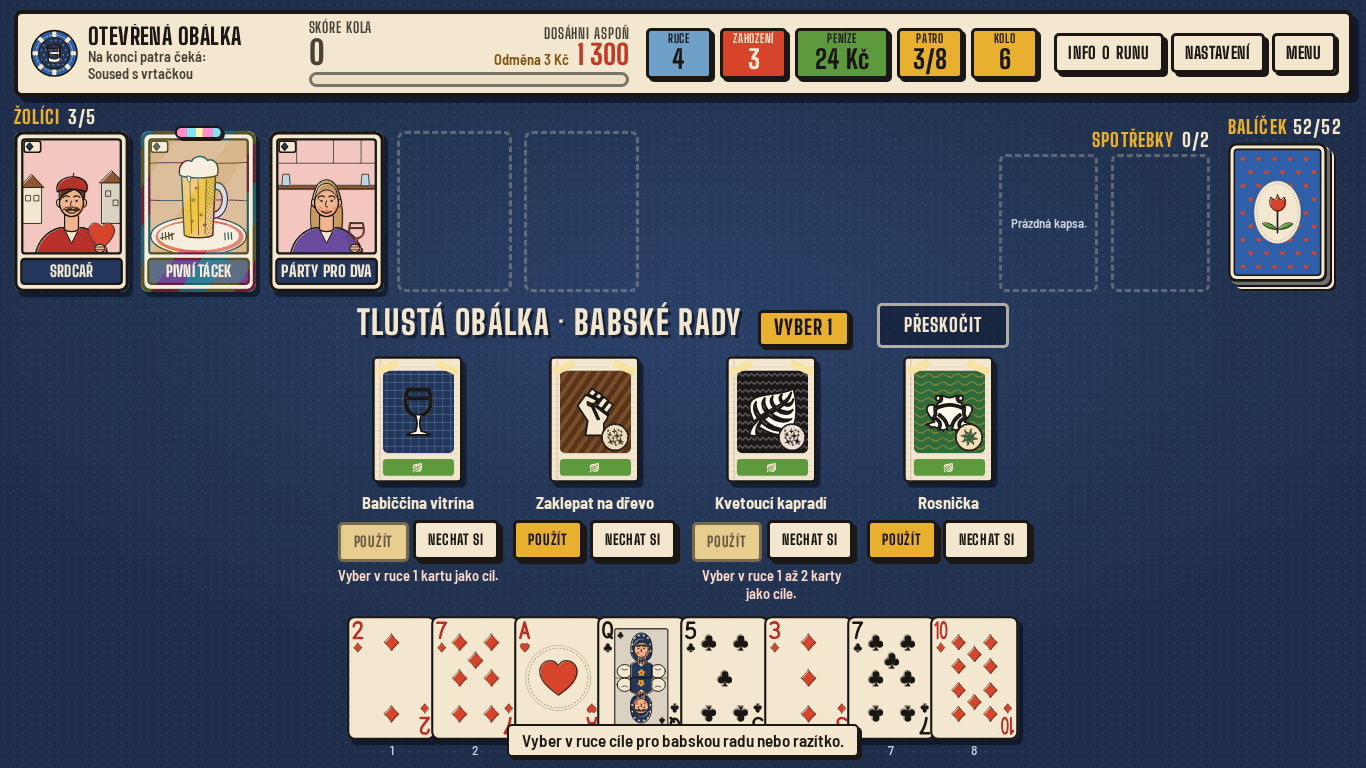
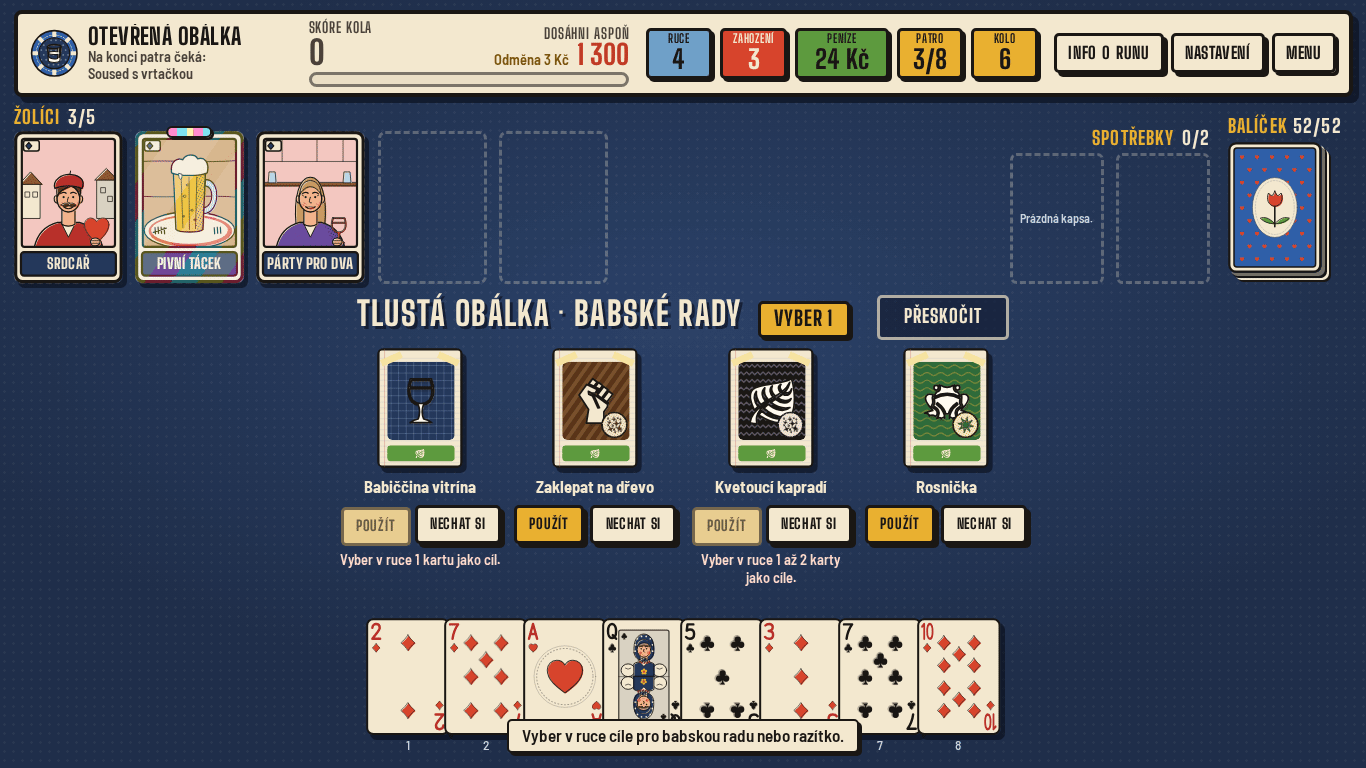
feat(ui): Balatro-style control row under the hand
Zahrat | Seradit | Zahodit now sit in one centered row right under the hand,
with the counts to the left, so the mouse never has to cross the screen.
To pay for the extra row the chips x mult preview moves to the top of the
table and played cards sit below it next to the hand; selected cards lift
into the empty table instead of over the numbers. Cards are about 6 %
smaller at 1366x768; tablet keeps the same row, phone puts Zahrat and
Zahodit side by side with sorting below. README media refreshed.

Claude-Session: https://claude.ai/code/session_01NwxbcCmohEvupYyde7D1S4

diff --git a/src/ui/styles/game.css b/src/ui/styles/game.css
@@ -17,7 +17,7 @@
    */
   --card-w: clamp(
     52px,
-    min(calc((100vw - 30rem) / 7.2), calc((100dvh - 15rem) / 4.5)),
+    min(calc((100vw - 4rem) / 7.4), calc((100dvh - 16.5rem) / 4.5)),
     calc(200px * var(--vp-scale, 1))
   );
   --game-card-w: var(--card-w);
@@ -42,7 +42,7 @@
   .game {
     --card-w: clamp(
       52px,
-      min(calc((100vw - 20rem) / 6.8), calc((100dvh - 19.5rem) / 4.4)),
+      min(calc((100vw - 3rem) / 7.4), calc((100dvh - 22rem) / 4.4)),
       calc(200px * var(--vp-scale, 1))
     );
   }
@@ -710,10 +710,10 @@
   grid-area: 1 / 1;
 }
 
-/* Kolo: zahrané karty nahoře uprostřed, pod nimi náhled kombinace. */
+/* Kolo: nahoře náhled kombinace, pod ním zahrané karty (u ruky). */
 .game-play {
   display: grid;
-  grid-template-rows: 1fr auto;
+  grid-template-rows: auto 1fr;
   align-items: center;
   justify-items: center;
   min-height: 0;
@@ -726,13 +726,17 @@
 
 .game-play > .game-table,
 .game-play > .game-table__hint {
-  grid-row: 1;
+  grid-row: 2;
   grid-column: 1;
 }
 
+/*
+ * Náhled kombinace nahoře na stole (pod žolíky), zahrané karty pod ním u ruky — vybrané karty se zvedají do
+ * prázdného stolu, ne přes čísla.
+ */
 .game-scoreboard {
-  grid-row: 2;
-  padding-bottom: 0.2rem;
+  grid-row: 1;
+  padding-top: 0.1rem;
 }
 
 /*
@@ -1906,20 +1910,21 @@
 /* ─────────────────────────── Dole: ruka a ovládání ─────────────────────────── */
 
 /*
- * Ruka uprostřed, Zahrát a Zahodit u sebe vpravo od ruky (Zahrát nad Zahodit — myš je má na jednom místě),
- * vlevo počty (vybráno, velikost ruky) a pod nimi třídění. Boční sloupce mají stálou šířku — tlačítka se při
- * zahrání neposouvají za zmenšenou rukou. Obaly ruky a ovládání (`.gb-hand-wrap`, `.gb-controls`, `.gb-mid`)
+ * Ruka přes celou šířku, pod ní uprostřed jedna řada ovládání jako u klasiky žánru: Zahrát | Seřadit | Zahodit
+ * (myš má obě hlavní tlačítka hned pod kartami), vlevo od ní počty (vybráno, velikost ruky). Tlačítka mají stálou
+ * šířku, takže se při zahrání neposouvají. Obaly ruky a ovládání (`.gb-hand-wrap`, `.gb-controls`, `.gb-mid`)
  * jsou `display: contents`, ať jejich prvky sedí v jedné mřížce. Balíček stojí v horní řadě (index.ts).
  */
 .game-bottom {
   position: relative;
   display: grid;
-  grid-template-columns: minmax(9rem, 13rem) minmax(0, 1fr) minmax(9rem, 13rem);
-  grid-template-rows: minmax(0, 1fr) auto;
+  grid-template-columns: minmax(0, 1fr) auto auto auto minmax(0, 1fr);
+  grid-template-rows: auto auto;
   grid-template-areas:
-    'counts hand play'
-    'sort hand discard';
-  gap: 0.5rem 1rem;
+    'hand hand hand hand hand'
+    'counts play sort discard .';
+  gap: 0.25rem 0.75rem;
+  align-items: center;
 }
 
 .game-main.is-handless .game-bottom {
@@ -2026,13 +2031,13 @@
   display: none;
 }
 
-/* Zahrát = zelený blok, Zahodit = rumělkový blok s krémovým písmem; velké, nad sebou vpravo od ruky. */
+/* Zahrát = zelený blok, Zahodit = rumělkový blok s krémovým písmem; velké, pod rukou kolem třídění. */
 .gb-play,
 .gb-discard {
-  justify-self: stretch;
+  width: 11.5rem;
   min-width: 0;
-  min-height: 4rem;
-  font-size: 1.85rem;
+  min-height: 3.2rem;
+  font-size: 1.6rem;
   --btn-shadow: 5px 5px 0 var(--ink);
 }
 
@@ -2040,17 +2045,14 @@
   --wash: var(--wash-green);
 
   grid-area: play;
-  align-self: end;
 }
 
 .gb-discard {
   grid-area: discard;
-  align-self: start;
 }
 
 .gb-sort {
   grid-area: sort;
-  align-self: start;
   display: flex;
   flex-wrap: wrap;
   gap: 0.35rem;
@@ -2087,8 +2089,9 @@
   flex-wrap: wrap;
   gap: 0.15rem 0.6rem;
   align-items: baseline;
-  align-self: end;
-  justify-content: center;
+  justify-self: end;
+  justify-content: flex-end;
+  text-align: right;
 }
 
 .gb-selected {
@@ -2097,10 +2100,10 @@
   color: var(--on-felt);
 }
 
-/* Krátká hláška u tlačítek (nejvýš 5 karet, nejdřív vyber karty) — cedulka nad spodním okrajem ruky. */
+/* Krátká hláška u tlačítek (nejvýš 5 karet, nejdřív vyber karty) — cedulka nad řadou tlačítek. */
 .gb-alert {
   position: absolute;
-  bottom: 0;
+  bottom: 3.7rem;
   left: 50%;
   z-index: 4;
   max-width: min(26rem, 90vw);
@@ -2200,17 +2203,13 @@
   }
 }
 
-/* Užší boční sloupce na menším notebooku (1024–1199 px). */
+/* Menší notebook (1024–1199 px): o kus menší tlačítka. */
 @media (max-width: 1199px) {
-  .game-bottom {
-    grid-template-columns: minmax(8rem, 11rem) minmax(0, 1fr) minmax(8rem, 11rem);
-    column-gap: 0.75rem;
-  }
-
   .gb-play,
   .gb-discard {
-    min-height: 3.6rem;
-    font-size: 1.6rem;
+    width: 10rem;
+    min-height: 3rem;
+    font-size: 1.45rem;
   }
 
   /* Popisek „Seřadit“ jen pro čtečky — tlačítka Hodnota / Barva se vejdou vedle sebe. */
@@ -2223,37 +2222,32 @@
   }
 }
 
-/* Tablet na výšku (≤ 900 px): pod rukou vlevo třídění a počty, vpravo Zahrát a Zahodit vedle sebe. */
+/* Tablet na výšku (≤ 900 px): stejná řada pod rukou, užší tlačítka; počty nad řadou. */
 @media (max-width: 900px) {
   .game-bottom {
-    grid-template-columns: minmax(0, 1fr) minmax(0, 13rem) minmax(0, 13rem);
-    grid-template-rows: auto auto;
+    grid-template-columns: minmax(0, 1fr) auto auto auto minmax(0, 1fr);
     grid-template-areas:
-      'hand hand hand'
-      'mid play discard';
-    gap: 0.3rem 0.6rem;
+      'hand hand hand hand hand'
+      'counts counts counts counts counts'
+      '. play sort discard .';
+    column-gap: 0.5rem;
   }
 
-  .gb-mid {
-    grid-area: mid;
-    display: flex;
-    flex-direction: column;
-    gap: 0.3rem;
-    align-items: flex-start;
+  .gb-counts {
+    justify-self: center;
     justify-content: center;
   }
 
   .gb-play,
   .gb-discard {
-    align-self: center;
-    min-height: 3.2rem;
-    font-size: 1.5rem;
+    width: 9rem;
+    min-height: 3rem;
+    font-size: 1.4rem;
     --btn-shadow: 4px 4px 0 var(--ink);
   }
 
-  .gb-play,
-  .gb-discard {
-    justify-self: stretch;
+  .gb-alert {
+    bottom: 3.4rem;
   }
 }
 
@@ -2774,24 +2768,16 @@
   .ui-large .game {
     --card-w: clamp(
       48px,
-      min(calc((100vw - 20rem) / 6.8), calc((100dvh - 18rem) / 4.4)),
+      min(calc((100vw - 3rem) / 7.4), calc((100dvh - 19.5rem) / 4.4)),
       calc(200px * var(--vp-scale, 1))
     );
   }
 
-  .ui-large .game-bottom {
-    grid-template-columns: minmax(8rem, 11rem) minmax(0, 1fr) minmax(8rem, 11rem);
-    column-gap: 0.75rem;
-  }
-
-  .ui-large .game-bottom {
-    row-gap: 0.4rem;
-  }
-
   .ui-large .gb-play,
   .ui-large .gb-discard {
-    min-height: 2.8rem;
-    font-size: 1.4rem;
+    width: 9rem;
+    min-height: 2.6rem;
+    font-size: 1.3rem;
   }
 
   /* Lišta o kus nižší (žetony a čísla), ať karty a panely fází dostanou víc výšky. */
@@ -2973,7 +2959,7 @@
 
 /*
  * Telefon („best effort“): stránka se posouvá. Lišta ve třech řadách (útrata, skóre a cíl, žetony a tlačítka),
- * žolíci přes celou šířku, ruka a pod ní Zahrát / Zahodit vedle sebe, balíček vpravo vedle třídění.
+ * žolíci přes celou šířku, ruka a pod ní Zahrát / Zahodit vedle sebe, pod nimi třídění.
  */
 @media (max-width: 600px) {
   .game {
@@ -3160,8 +3146,9 @@
     grid-template-columns: minmax(0, 1fr) minmax(0, 1fr);
     grid-template-areas:
       'hand hand'
+      'counts counts'
       'play discard'
-      'mid mid';
+      'sort sort';
     gap: 0.3rem 0.4rem;
   }
 
@@ -3187,9 +3174,9 @@
     font-size: 1.35rem;
   }
 
-  .gb-mid {
-    flex-flow: row wrap;
-    justify-content: center;
+  .gb-alert {
+    bottom: auto;
+    top: 0;
   }
 
   .gb-deck__head {

diff --git a/docs/DECISIONS.md b/docs/DECISIONS.md
@@ -3822,12 +3822,14 @@ ze 60. let. K tomu nové rozvržení.
   - Žolíci jsou asi o 30 % větší (`--joker-w` = 1,04 × karta) a mají jméno na kartě. Volné sloty mají čárkované
     obrysy, takže je vidět, kolik místa zbývá.
   - Balíček je v horní řadě vedle spotřebek.
-  - Náhled čipy × mult je velký uprostřed stolu pod zahranými kartami. Stůl už není prázdný a hlavní okamžik hry
-    je uprostřed.
-  - Ruka je větší (karta se počítá ze šířky i výšky okna). Zahrát a Zahodit jsou velké bloky u sebe vpravo
-    od ruky (Zahrát nad Zahodit) ve sloupci stálé šířky, takže při zahrání neuhýbají. Vlevo jsou počty a třídění.
-    Hráč chtěl obě tlačítka blízko sebe — původně byla každé na jedné straně ruky a myš musela přejíždět přes
-    celou obrazovku. Na tabletu a telefonu jsou vedle sebe pod rukou.
+  - Náhled čipy × mult je velký nahoře uprostřed stolu, zahrané karty jsou pod ním. Stůl už není prázdný
+    a hlavní okamžik hry je uprostřed.
+  - Ruka je přes celou šířku (karta se počítá ze šířky i výšky okna). Pod ní je uprostřed jedna řada ovládání
+    jako u klasiky žánru: Zahrát | Seřadit | Zahodit, vlevo od ní počty. Tlačítka mají stálou šířku, takže při
+    zahrání neuhýbají. Hráč chtěl tlačítka pod rukou: dřív byla na stranách ruky a myš musela přes celou
+    obrazovku. Řada stojí asi 3,5 rem výšky, proto je náhled kombinace nahoře na stole a zahrané karty pod ním
+    u ruky (vybrané karty se zvedají do prázdného stolu, ne přes čísla). Karty jsou na 1366 × 768 asi o 6 %
+    menší. Na telefonu jsou Zahrát a Zahodit vedle sebe a třídění pod nimi.
   - Bubliny skórování jsou tištěné nálepky (plná barva, linka, tvrdý stín). Velké skóre dává hořčicový rastr
     místo zlaté záře.
   - Hlášky jdou do volného místa v horní řadě mezi žolíky a spotřebkami. Když tam místo není, jdou do pravého

diff --git a/docs/ARCHITECTURE.md b/docs/ARCHITECTURE.md
@@ -365,8 +365,8 @@ flavor a že texty dodržují typografii.
     Štamgast.
 - Herní obrazovka (Sirkárna): nahoře kartonová lišta (`sidebar.ts`: útrata, skóre s ukazatelem, cíl, žetony, tlačítka),
   pod ní řada žolíků se jménem a obrysy volných slotů, spotřebky a balíček (`topRow.ts`, balíček přesune `index.ts`),
-  uprostřed stůl se zahranými kartami a pod nimi velký náhled čipy × mult (`sidebar.handInfoEl` v `.game-scoreboard`),
-  dole ruka, vpravo od ní velká Zahrát a Zahodit nad sebou, vlevo počty a třídění (`handArea.ts`). Velikost karet
+  uprostřed stolu velký náhled čipy × mult (`sidebar.handInfoEl` v `.game-scoreboard`) a pod ním zahrané karty,
+  dole ruka a pod ní řada Zahrát | Seřadit | Zahodit (vlevo počty) (`handArea.ts`). Velikost karet
   `--card-w` plyne z šířky i výšky okna (game.css).
 - Šéfové a štítky v UI (fáze 6): texty přes `describe.ts` (`bossTexts` dosazuje `BossDef.params`, `bossReasonText`
   = „Šéf X: pravidlo“ jen když pravidlo v kole platí). Příchod šéfa = plakát nad stolem (`screens/game/bossBanner.ts`,

diff --git a/ROADMAP.md b/ROADMAP.md
@@ -521,7 +521,7 @@ Náhledy stylů A–I a variant E1–E4 jsou ve scratchpadu (ne v repu); volba h
 - [x] S2: tokeny Sirkárny (`base.css`), písma Big Shoulders Display + Barlow Semi Condensed (OFL, fetch-assets),
       tlačítka, karton, dialogy, hlášky, tooltip
 - [x] S3: herní obrazovka — horní lišta, velcí žolíci se jménem a obrysy slotů, balíček v horní řadě, náhled
-      čipy × mult uprostřed stolu, větší ruka, Zahrát a Zahodit u sebe vpravo od ruky; panely fází,
+      čipy × mult uprostřed stolu, větší ruka, pod ní řada Zahrát | Seřadit | Zahodit; panely fází,
       bubliny, karty, tutoriál a efekty v tiskovém stylu; ověřeno na 1024×768, 1280×720, 1366×768, 1920×1080,
       tabletu 820×1180, telefonu 390×844 a při velikosti UI 130 %
 - [x] Doladění podle playtestu: pečetě a edice čitelné na první pohled, kontrast skóre mimo kolo, křížek hlášky
